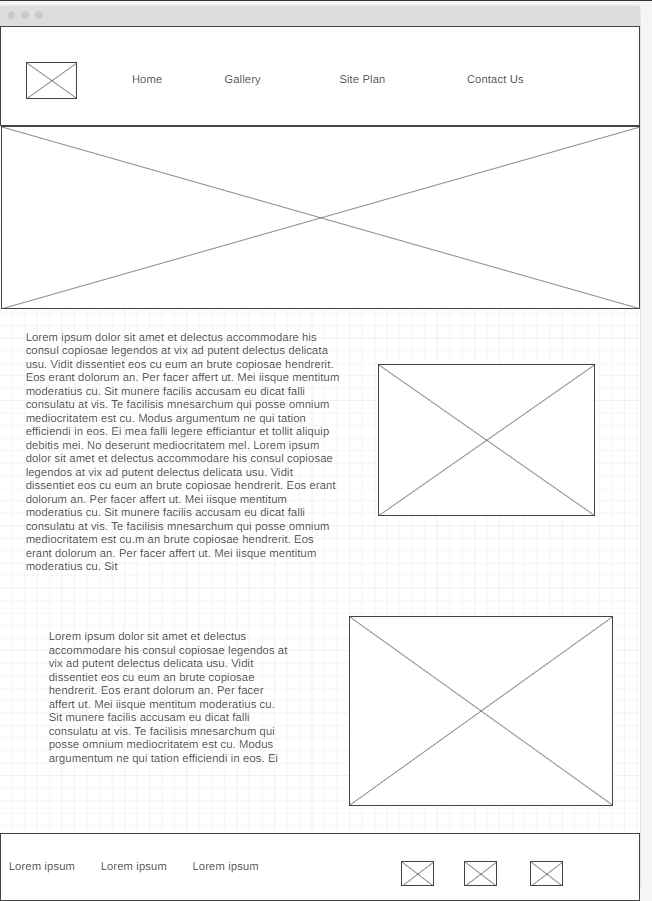
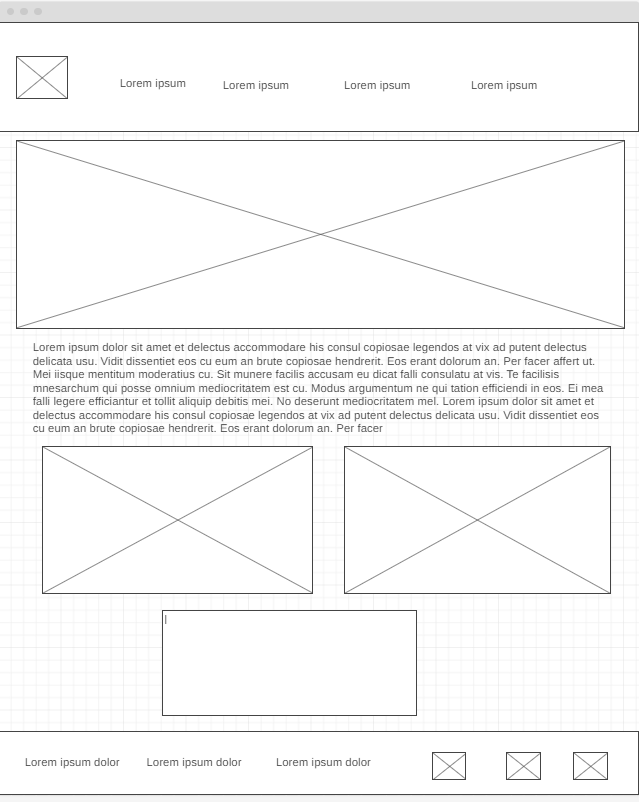
second child page css added

diff --git a/moonart/contactus.html b/moonart/contactus.html
@@ -4,7 +4,7 @@
     <meta charset="UTF-8">
     <meta name="viewport" content="width=device-width, initial-scale=1.0">
     <title>Contact Us</title>
-    <link rel="stylesheet" href="styles/style.css">
+    <link rel="stylesheet" href="styles/styles.css">
     <style>
         form {
             margin: 0 auto;
@@ -76,60 +76,54 @@
         <div id="hero-box">
             <img id="hero-img" src="./images/moonartlogo.jpg" alt="Moon-Art logo">
         </div>
+    <div class="content-wrapper">
+        <div class="text-content">
+            <p>
+            <h3>Contact Us</h3>
+            
+                Thank you for your interest in our design services. We value your feedback, inquiries, and collaboration opportunities. To get in touch with us, here are our contact details:
 
-    <h3>Contact Us</h3>
-    <p>
-        Thank you for your interest in our design services. We value your feedback, inquiries, and collaboration opportunities. To get in touch with us, here are our contact details:
+                Our dedicated team is available to assist you during our business hours, which are [Insert business hours]. You can reach out to us via phone or email, and we will respond to your queries as soon as possible.
 
-        Our dedicated team is available to assist you during our business hours, which are [Insert business hours]. You can reach out to us via phone or email, and we will respond to your queries as soon as possible.
+                Alternatively, you can also visit our office located at [Insert physical address]. Please note that visits to our office are by appointment only, so we recommend contacting us beforehand to schedule a meeting.
 
-        Alternatively, you can also visit our office located at [Insert physical address]. Please note that visits to our office are by appointment only, so we recommend contacting us beforehand to schedule a meeting.
+                We understand the importance of effective communication, and we are committed to providing excellent customer service. Whether you have questions about our services, want to discuss a project, or need assistance with an ongoing design project, we are here to help. Our team is friendly, knowledgeable, and always ready to provide the support you need.
 
-        We understand the importance of effective communication, and we are committed to providing excellent customer service. Whether you have questions about our services, want to discuss a project, or need assistance with an ongoing design project, we are here to help. Our team is friendly, knowledgeable, and always ready to provide the support you need.
+                In addition to our direct contact information, you can also connect with us on social media platforms such as Facebook, Twitter, and Instagram. Follow our pages to stay updated with our latest projects, design tips, and industry insights.
 
-        In addition to our direct contact information, you can also connect with us on social media platforms such as Facebook, Twitter, and Instagram. Follow our pages to stay updated with our latest projects, design tips, and industry insights.
+                We value your trust and privacy. Rest assured that any information you provide us will be treated confidentially and used solely for the purpose of assisting you with your design needs.
 
-        We value your trust and privacy. Rest assured that any information you provide us will be treated confidentially and used solely for the purpose of assisting you with your design needs.
-
-        Thank you again for considering our services. We look forward to hearing from you and working together to bring your design ideas to life.
-    </p>
-
-    <div id="hero">
-        <div id="hero-box">
-            <img id="hero-img" src="./images/IMG_20211123_101556.jpg" alt="Moon-Art logo">
+                Thank you again for considering our services. We look forward to hearing from you and working together to bring your design ideas to life.
+            </p>
         </div>
 
-        <section id="hero-msg">
-            <h3 class="home-title">Please contact us by filling out the required fields</h3>
-
+            <div class="image-container">
+                <img src="./images/IMG_20211123_101556.jpg" alt="image"          style="width:100%">
+                <img src="./images/flyer.jpg" alt="flyer" style="width:100%">
             </div>
-        </section>
-    </div>
-    <div id="feedback"></div>
-    <form action="/my-handling-form-page" method="post">
-        <ul>
-            <li>
-                <label for="name">Name</label>
-                <input type="text" id="name" name="user_name"/>
-            </li>
-            <li>
-                <label for="mail">Email:</label>
-                <input type="email" id="mail" name="user_email"/>
-            </li>
-            <li>
-                <label for="msg">Message:</label>
-                <textarea id="msg" name="user_message"></textarea>
-            </li>
-            <li class="button">
-                <button type="submit">Send your message</button>
-            </li>
-        </ul>
+        
+        <div id="feedback"></div>
+        <form action="/my-handling-form-page" method="post">
+            <ul>
+                <li>
+                    <label for="name">Name</label>
+                    <input type="text" id="name" name="user_name"/>
+                </li>
+                <li>
+                    <label for="mail">Email:</label>
+                    <input type="email" id="mail" name="user_email"/>
+                </li>
+                <li>
+                    <label for="msg">Message:</label>
+                    <textarea id="msg" name="user_message"></textarea>
+                </li>
+                <li class="button">
+                    <button type="submit">Send your message</button>
+                </li>
+            </ul>
     </form>
 
-    <div id="hero">
-        <div id="hero-box">
-            <img id="hero-img" src="./images/flyer.jpg" alt="Moon-Art logo">
-        </div>
+    
 
     <main>
     </main>
@@ -151,7 +145,7 @@
     </footer>
     </div>
     <script>
-        const feedbackElement = document.getElementById('feedback');
+        const feedbackElement = document.getElementById('feedback'); 
         const formElement = document.forms[0];
         formElement.addEventListener('submit', function(e){
             e.preventDefault();

diff --git a/moonart/gallery.html b/moonart/gallery.html
@@ -28,43 +28,43 @@
             <img id="hero-img" src="./images/moonartlogo.jpg" alt="Moon-Art Logo">
             <div class="text-container">
             <p>
-        <h3>Welcome to our Gallery</h3>
+        <h1>Welcome to our Gallery</h1>
         
     
-    <h3>  Logo Design:</h3>
+    <h2>  Logo Design:</h2>
     A logo is the face of your brand, representing it's identity and values. We understand the significance of a well-crafted logo,
         and our talented designers are dedicated to creating unique and impactful logos that capture the essence of your business. Whether you're starting
         from scratch or looking to refresh your existing logo, our team will work closely with you to create a visually stunning logo tha leaves a 
         lasting impression on your target audience.
     
-    <h3>Flyers and Brochures:</h3>
+    <h2>Flyers and Brochures:</h2>
     When it comes to promoting your products, services or events, professionally designed flyers and brochures can make all the difference.
         Our team of skilled designers excels in creating visually appealing and engaging marketing materials that effectively convey your message.
         From attention grabbing headlines to captivating visuals and persuasive content, we ensure that every element of your flyer or brochure is 
         meticulously crafted to leave a lasting impact on your audience.
     
 
-    <h3>Banners and Signage:</h3>
+    <h2>Banners and Signage:</h2>
             In a world of visual noise, it is crucial to have an eye-catching banner and signage that grabs attention and communicate you
         message effectively. Our design expects specialize in creating visual striking banners and signage that commands attention and lasting impacts.
         Whether it's for outdoor advertising, trade shows, or retail displays, we combine creative design concepts with strategic messaging to ensure your 
         banners and signage become powerful tools for brand promotion. Let us help you make a bold statement and stand out in the crowd.
 
-    <h3>Web Development:</h3>
+    <h2>Web Development:</h2>
             In today's digital age, a well-designed and functional website is essential for any business. Our team takes pride in their experience to 
         create customized websites that not only look great but also provides a seamless user experience. We understand the importance of responsive design, 
         intuitive navigation, and engaging contents to captivate your website visitors. Whether you need a simple informational website or a complex e-commerce
         platform, we have the expertise to build a website that aligns with your brand identity and achieves your business goal.
 
 
-    <h3>Customer-Centric Approach, Quality Assurance and Timely Delivery:</h3>
+    <h2>Customer-Centric Approach, Quality Assurance and Timely Delivery:</h2>
             At our company, we prioritize customer satisfaction above all else. We believe in building strong, collaborative relationships with our clients,
         working closely with them throughout the design process. We take the time to understand your specific requirements, goals and target audience.
 
         We also committed to delivering the highest quality design solutions to our clients. Our team follows a rigorous quality assurance process to ensure that every design we create meets the highest standards.
         Additionally, we understand the importance of timely delivery and strive to complete projeCts within the agreed-upon timelines, allowing you launch your marketing campaigns or websites without delays.
 
-    <h3>Conclusion:</h3>
+    <h2>Conclusion:</h2>
             Our website is your one-stop destination for all your design needs. Whether you require a captivating logo, stunning flyers and brochures, attention
         grabbing banners and signage, or a professional website, out team of skilled designers and developers are here to bring your ideas to life.
         With a customer centric approach, a commitment to quality, and a focus on exceeding your expectations, we aim to empower your brand with creative design solutions

diff --git a/moonart/styles/styles.css b/moonart/styles/styles.css
@@ -49,6 +49,7 @@ p {
 }
 
 footer {
+    display: grid;
     background-color: #333;
     color: #fff;
     padding: 10px;
@@ -149,7 +150,37 @@ input[type=text] {
     grid-template-columns: repeat(2,1fr);
     grid-gap: 20px;
 }
-.shelter-card, .spiral-card, .flower-card, .flyer-card,.moonart-card, .cherry-card{
+.shelter-card, .spiral-card, .flower-card, .flyer-card,.moonart-card, .cherry-card {
     width: 100%;
     height: auto;
+}
+/* Contact Us css */
+
+
+#feedback, form {
+    width: 40%;
+}
+ul {
+    list-style-type: none;
+    padding: 0;
+    margin: 0;
+}
+li {
+    margin-bottom: 10px;
+}
+label {
+    display: block;
+}
+input, textarea {
+    width: 50%;
+    padding: 5px;
+}
+.image-container {
+    display: flex;
+    padding: auto;
+    gap: 20px;
+}
+.image-container img {
+    width: 50%;
+    height:500px ;
 }

diff --git a/moonart/index.html b/moonart/index.html
@@ -19,7 +19,7 @@
                 <a href="index.html">Home</a>
                 <a href="gallery.html">Gallery</a>
                 <a href="site-plan.html">Site Plan</a>
-                <a href="/contactus.html">Contact Us</a>
+                <a href="contactus.html">Contact Us</a>
                 <div class="login-container">
                 <form action="/action_page.php">
                     <input type="text" placeholder="Username" name="username">
